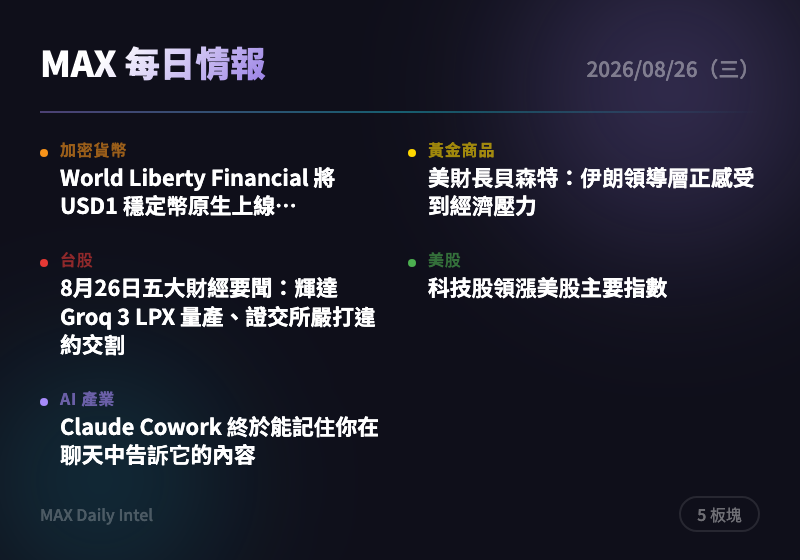
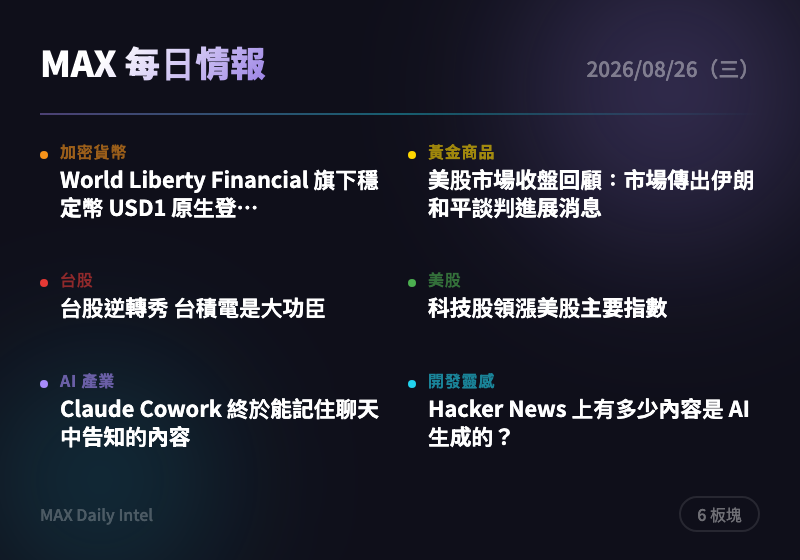
intel: 2026-08-26 每日情報自動生成

diff --git a/docs/2026-08-26.html b/docs/2026-08-26.html
@@ -295,7 +295,7 @@
     <h1>每日情報站</h1>
     <div class="date">2026 年 8 月 26 日（三）</div>
     <div class="stats">
-      <span>10 則情報</span>
+      <span>12 則情報</span>
       <span>7 大板塊</span>
     </div>
   </header>
@@ -318,15 +318,15 @@
     </div>
     <div class="news-card">
       <div class="source">CoinTelegraph</div>
-      <h3><a href="https://cointelegraph.com/news/world-liberty-financial-launches-usd1-natively-on-canton-network?utm_source=rss_feed&utm_medium=rss&utm_campaign=rss_partner_inbound" target="_blank" rel="noopener">World Liberty Financial 將 USD1 穩定幣原生上線 Canton Network</a></h3>
-      <div class="summary">USD1 穩定幣（市值逾 40 億美元、全球第六大）正式原生部署於機構級區塊鏈 Canton Network。此舉強化 USD1 在機構金融場景的流通性與可信度，顯示穩定幣持續往合規化、機構化方向發展。建議留意 USD1 後續在機構清算與代幣化資產結算的採用進度。</div>
-      <div class="tags"><span class="tag">穩定幣</span><span class="tag">機構區塊鏈</span><span class="tag">USD1</span><span class="tag">代幣化</span></div>
+      <h3><a href="https://cointelegraph.com/news/world-liberty-financial-launches-usd1-natively-on-canton-network?utm_source=rss_feed&utm_medium=rss&utm_campaign=rss_partner_inbound" target="_blank" rel="noopener">World Liberty Financial 旗下穩定幣 USD1 原生登陸 Canton Network</a></h3>
+      <div class="summary">川普家族背景的 World Liberty Financial 將其穩定幣 USD1 原生部署到機構級公鏈 Canton Network。USD1 市值已超過 40 億美元，是全球第六大穩定幣，此舉代表機構資金正加速布局合規穩定幣基礎設施。建議持續關注 USD1 流通量變化，作為觀察機構資金進出穩定幣市場的指標。</div>
+      <div class="tags"><span class="tag">穩定幣</span><span class="tag">區塊鏈基礎設施</span><span class="tag">機構資金</span></div>
     </div>
     <div class="news-card">
       <div class="source">The Block</div>
-      <h3><a href="https://www.theblock.co/news/ecosystems/2026-08-25-zro-token-layerzero-atlas-exchange-infrastructure-zero-blockchain-412736" target="_blank" rel="noopener">ZRO 代幣暴漲：LayerZero 推出建於 Zero 區塊鏈的 ATLAS 交易所基礎設施</a></h3>
-      <div class="summary">LayerZero 宣布新交易基礎設施 ATLAS，建構於自家 Zero 區塊鏈上，服務交易平台與金融機構。此舉將 LayerZero 從跨鏈訊息協議延伸進交易基礎設施市場，帶動 ZRO 代幣價格大漲。建議關注 ATLAS 後續機構採用情況，可作為觀察跨鏈交易基礎設施類代幣的指標。</div>
-      <div class="tags"><span class="tag">區塊鏈基礎設施</span><span class="tag">跨鏈</span><span class="tag">代幣</span><span class="tag">機構採用</span></div>
+      <h3><a href="https://www.theblock.co/news/ecosystems/2026-08-25-zro-token-layerzero-atlas-exchange-infrastructure-zero-blockchain-412736" target="_blank" rel="noopener">ZRO 代幣飆升，LayerZero 推出建於 Zero 鏈上的 ATLAS 交易所基礎設施</a></h3>
+      <div class="summary">LayerZero 發布新交易基礎設施 ATLAS，鎖定交易平台與金融機構客戶，建構在其自有 Zero 區塊鏈之上。消息帶動原生代幣 ZRO 價格明顯上漲，顯示市場對跨鏈基礎設施敘事仍具高度興趣。短線可留意 ZRO 是否維持動能，中長期則觀察 ATLAS 實際機構採用情況。</div>
+      <div class="tags"><span class="tag">跨鏈</span><span class="tag">交易所基礎設施</span><span class="tag">代幣異動</span></div>
     </div>
   </section>
 
@@ -338,15 +338,15 @@
     </div>
     <div class="news-card">
       <div class="source">ForexLive</div>
-      <h3><a href="https://investinglive.com/news/bessent-iran-leadership-is-feeling-the-economic-pressure/" target="_blank" rel="noopener">美財長貝森特：伊朗領導層正感受到經濟壓力</a></h3>
-      <div class="summary">美國財政部長貝森特表示對伊朗的經濟制裁壓力正在發酵，伊朗官員罕見公開承認國內物資短缺與經濟困境。此番言論強化市場對美伊局勢降溫、制裁見效的預期，是近期黃金與原油價格波動的關鍵驅動因素。建議持續關注伊朗官方後續表態，作為判斷地緣風險溢價是否進一步消退的依據。</div>
-      <div class="tags"><span class="tag">地緣政治</span><span class="tag">伊朗制裁</span><span class="tag">美國財政部</span><span class="tag">黃金</span></div>
+      <h3><a href="https://investinglive.com/news/investinglive-americas-market-news-wrap-some-late-talk-of-iran-peace/" target="_blank" rel="noopener">美股市場收盤回顧：市場傳出伊朗和平談判進展消息</a></h3>
+      <div class="summary">俄羅斯媒體傳出美伊可能達成協議的消息，同時歐洲央行內部消息人士表態九月準備升息。地緣風險降溫與央行政策轉向雙重訊號，可能同時壓抑金價避險需求並推升利率敏感資產波動。建議留意伊朗消息的官方證實進度及歐洲央行九月會議前瞻指引。</div>
+      <div class="tags"><span class="tag">地緣政治</span><span class="tag">央行</span><span class="tag">避險資產</span></div>
     </div>
     <div class="news-card">
       <div class="source">ForexLive</div>
-      <h3><a href="https://investinglive.com/news/iran-and-oman-propose-a-joint-temporary-shipping-lane/" target="_blank" rel="noopener">伊朗與阿曼提議建立臨時聯合海運通道</a></h3>
-      <div class="summary">受美伊和談進展傳聞影響，原油市場已連續兩日重挫，伊朗與阿曼隨即宣布共同海運通道及聯合掃雷計畫的協議，美方亦搶先表態水雷已清除。此為美伊關係緩和的具體訊號，將進一步壓低地緣風險溢價並拖累金價與油價。建議關注後續正式協議內容及是否有更多制裁鬆綁跟進動作。</div>
-      <div class="tags"><span class="tag">地緣政治</span><span class="tag">伊朗</span><span class="tag">原油</span><span class="tag">黃金</span></div>
+      <h3><a href="https://investinglive.com/news/iran-and-oman-propose-a-joint-temporary-shipping-lane/" target="_blank" rel="noopener">伊朗與阿曼提議共設臨時航運通道</a></h3>
+      <div class="summary">在原油市場連兩日因傳出美伊協議進展而重挫後，伊朗與阿曼隨即宣布同意設立臨時航運通道並合作清除水雷，川普更搶先宣稱雷區已清除。此為美伊局勢緩和的具體訊號，若持續發酵將壓低原油與金價的地緣風險溢價。建議短線關注原油價格是否加速下跌，並留意黃金避險需求是否同步降溫。</div>
+      <div class="tags"><span class="tag">地緣政治</span><span class="tag">原油</span><span class="tag">伊朗局勢</span></div>
     </div>
   </section>
 
@@ -358,15 +358,15 @@
     </div>
     <div class="news-card">
       <div class="source">經濟日報</div>
-      <h3><a href="https://money.udn.com/money/story/5607/9714233" target="_blank" rel="noopener">8月26日五大財經要聞：輝達 Groq 3 LPX 量產、證交所嚴打違約交割</a></h3>
-      <div class="summary">輝達最強 AI 推論晶片 Groq 3 LPX 機櫃全面量產，鴻海供應鏈受惠；同時證交所大幅收緊違約交割列管期至五年。兩則消息分別牽動台股 AI 供應鏈及市場交易紀律面，對電子權值股與整體市場穩定性均有影響。建議關注鴻海等 AI 伺服器供應鏈廠商訂單能見度，並留意證交所新規對投機交易行為的抑制效果。</div>
-      <div class="tags"><span class="tag">台股</span><span class="tag">AI伺服器</span><span class="tag">輝達</span><span class="tag">證交所法規</span></div>
+      <h3><a href="https://money.udn.com/money/story/5607/9714153" target="_blank" rel="noopener">台股逆轉秀 台積電是大功臣</a></h3>
+      <div class="summary">台股昨日受美股費半指數與科技股走弱拖累，早盤重挫逾500點下探44,210點，但午後電子權值股與金融股買盤湧入，指數翻紅並衝上全日最高45,169點，終場上漲407點。這波「神龍擺尾」逆轉行情顯示內資買盤對權值股的支撐力道強勁，短線可留意台積電及金融股是否延續買盤動能。</div>
+      <div class="tags"><span class="tag">台股</span><span class="tag">台積電</span><span class="tag">權值股</span></div>
     </div>
     <div class="news-card">
       <div class="source">經濟日報</div>
-      <h3><a href="https://money.udn.com/money/story/5607/9714153" target="_blank" rel="noopener">台股逆轉秀：台積電是大功臣</a></h3>
-      <div class="summary">台股受美股費半指數走弱拖累早盤重挫逾 500 點至 44,210 點，但午盤後電子權值股與金融股買盤湧入，終場大漲 407 點收在全日最高 45,169 點，上演「神龍擺尾」行情。台積電及權值股承接力道顯示內資信心強勁，可作為短線觀察大盤支撐的重要指標。建議留意台積電後續法說會及外資動向，作為進出場參考。</div>
-      <div class="tags"><span class="tag">台股</span><span class="tag">台積電</span><span class="tag">權值股</span><span class="tag">大盤走勢</span></div>
+      <h3><a href="https://money.udn.com/money/story/5607/9714043" target="_blank" rel="noopener">Google TPU 訂單成長帶動 聯發科、創意、世芯獲大摩看好</a></h3>
+      <div class="summary">摩根士丹利最新報告指出，隨著 Google TPU v10 複雜度提升，聯發科在打造相關晶片時將釋出空間給多家設計服務供應商分工不同區塊。此為台灣 ASIC／IC 設計服務供應鏈受惠 AI 晶片大廠外包趨勢的具體訊號，聯發科、創意、世芯可望共同受益訂單擴大。建議留意相關概念股法人買盤動向及 Q4 財報展望。</div>
+      <div class="tags"><span class="tag">半導體</span><span class="tag">AI晶片</span><span class="tag">供應鏈</span></div>
     </div>
   </section>
 
@@ -379,14 +379,14 @@
     <div class="news-card">
       <div class="source">WSJ Markets</div>
       <h3><a href="https://www.wsj.com/finance/stocks/tech-stocks-lead-major-indexes-higher-6291aac9?mod=rss_markets_main" target="_blank" rel="noopener">科技股領漲美股主要指數</a></h3>
-      <div class="summary">美股主要指數由科技股帶動走高，同時公債指標殖利率創六月以來最大單日跌幅。殖利率下滑降低了成長股估值壓力，是推升科技股表現的重要背景。建議觀察後續殖利率走勢是否延續，作為判斷科技股評價是否持續獲得支撐的依據。</div>
-      <div class="tags"><span class="tag">美股</span><span class="tag">科技股</span><span class="tag">公債殖利率</span></div>
+      <div class="summary">美股由科技股帶動走高，同時基準公債殖利率創下自六月以來最大單日跌幅。殖利率下滑通常反映市場對降息或風險趨避情緒的重新定價，配合科技股領漲顯示資金風險偏好回升。建議關注公債殖利率走勢是否持續下行，以及是否帶動更多資金輪動至成長股。</div>
+      <div class="tags"><span class="tag">美股</span><span class="tag">公債殖利率</span><span class="tag">科技股</span></div>
     </div>
     <div class="news-card">
       <div class="source">MarketWatch</div>
-      <h3><a href="https://www.marketwatch.com/story/why-metas-stock-could-see-a-50-rally-thanks-to-an-overlooked-ai-wild-card-28cea54b?mod=mw_rss_topstories" target="_blank" rel="noopener">Meta 股價可能因被忽視的 AI 變數迎來 50% 漲幅</a></h3>
-      <div class="summary">分析師指出，AI 運算資源持續短缺，可能讓 Meta 得以將自身多餘運算產能高價出售給其他企業，創造被市場低估的新營收來源。此觀點若成立，將為 Meta 股價提供額外上漲動能，超越單純廣告與 AI 應用敘事。建議關注 Meta 是否有具體對外出售運算產能的商業動作作為驗證訊號。</div>
-      <div class="tags"><span class="tag">美股</span><span class="tag">Meta</span><span class="tag">AI算力</span><span class="tag">科技股</span></div>
+      <h3><a href="https://www.marketwatch.com/story/why-metas-stock-could-see-a-50-rally-thanks-to-an-overlooked-ai-wild-card-28cea54b?mod=mw_rss_topstories" target="_blank" rel="noopener">分析師：Meta 股價可能因被忽視的 AI 因素上漲 50%</a></h3>
+      <div class="summary">分析指出，持續存在的 AI 運算力短缺可能讓 Meta 有機會將其龐大運算容量以高溢價出售給其他企業，成為市場尚未充分定價的潛在利多因子。此觀點為 Meta 股價提供新的上漲敘事，區別於單純廣告營收成長邏輯。建議關注 Meta 是否釋出雲端／算力出租相關官方消息以驗證此假設。</div>
+      <div class="tags"><span class="tag">Meta (臉書母公司)</span><span class="tag">AI算力</span><span class="tag">個股展望</span></div>
     </div>
   </section>
 
@@ -398,15 +398,15 @@
     </div>
     <div class="news-card">
       <div class="source">TechCrunch AI</div>
-      <h3><a href="https://techcrunch.com/2026/08/25/claude-cowork-finally-remembers-what-you-told-the-app-in-chat/" target="_blank" rel="noopener">Claude Cowork 終於能記住你在聊天中告訴它的內容</a></h3>
-      <div class="summary">Anthropic 為 Claude 打造跨 Chat 與 Cowork 的共享記憶功能，使用者不再需要重複向 AI 說明專案背景、偏好與其他情境資訊。此為 Anthropic 產品體驗的重大升級，直接強化 Claude 在長期協作場景的實用性與黏著度。建議關注此記憶功能是否延伸至 API/企業版，將是判斷 Anthropic 產品線競爭力的重要指標。</div>
-      <div class="tags"><span class="tag">AI</span><span class="tag">Anthropic</span><span class="tag">Claude</span><span class="tag">產品更新</span></div>
+      <h3><a href="https://techcrunch.com/2026/08/25/claude-cowork-finally-remembers-what-you-told-the-app-in-chat/" target="_blank" rel="noopener">Claude Cowork 終於能記住聊天中告知的內容</a></h3>
+      <div class="summary">Anthropic (人工智慧公司) 為 Claude 導入跨聊天與 Cowork 應用的共享記憶功能，使用者不再需要在每次使用時重複說明專案背景與個人偏好。此功能提升 Claude 在企業協作場景中的實用性與黏著度，屬於產品體驗的重要升級。建議關注此記憶功能上線後對企業用戶留存率及訂閱轉換的影響。</div>
+      <div class="tags"><span class="tag">Anthropic (人工智慧公司)</span><span class="tag">Claude (AI助手)</span><span class="tag">產品更新</span></div>
     </div>
     <div class="news-card">
       <div class="source">TechCrunch AI</div>
-      <h3><a href="https://techcrunch.com/2026/08/25/openais-jalapeno-chip-is-built-for-fast-inference-at-scale-benchmarks-show/" target="_blank" rel="noopener">OpenAI Jalapeño 晶片專為大規模快速推論設計，基準測試出爐</a></h3>
-      <div class="summary">在 SemiAnalysis 的 InferenceX 基準測試中，OpenAI 自研 Jalapeño 晶片在每用戶處理速度與每千瓦吞吐量兩項指標均優於現有業界最先進水準。此為 OpenAI 首度以實測數據證明自研晶片的推論效率優勢，象徵大型 AI 實驗室加速自製晶片、降低對輝達依賴的趨勢。建議持續追蹤 Jalapeño 量產進度及對輝達、超微等既有供應鏈廠商的潛在衝擊。</div>
-      <div class="tags"><span class="tag">AI</span><span class="tag">OpenAI</span><span class="tag">自研晶片</span><span class="tag">半導體</span></div>
+      <h3><a href="https://techcrunch.com/2026/08/25/openais-jalapeno-chip-is-built-for-fast-inference-at-scale-benchmarks-show/" target="_blank" rel="noopener">OpenAI「Jalapeño」晶片主打大規模快速推論，基準測試出爐</a></h3>
+      <div class="summary">在 SemiAnalysis 的 InferenceX 基準測試中，OpenAI 自研的 Jalapeño 晶片在每用戶處理 token 數與每千瓦吞吐量上均優於現有業界最先進水準。這代表 OpenAI 正加速自研晶片以降低對 Nvidia (輝達) 等第三方硬體的依賴，並強化其推論成本優勢。建議關注 Jalapeño 量產進度及對 Nvidia 資料中心晶片需求的潛在排擠效應。</div>
+      <div class="tags"><span class="tag">AI晶片</span><span class="tag">OpenAI</span><span class="tag">自研硬體</span></div>
     </div>
   </section>
 
@@ -414,9 +414,20 @@
     <div class="sector-header">
       <div class="indicator" style="background:#00bcd4"></div>
       <h2>&#x1f6e0;&#xfe0f; 開發靈感</h2>
-      <span class="badge">0 則</span>
+      <span class="badge">2 則</span>
     </div>
-    <div class="empty">今日暫無相關情報</div>
+    <div class="news-card">
+      <div class="source">Hacker News Best</div>
+      <h3><a href="https://blog.coredump.cx/p/how-much-of-hn-is-ai" target="_blank" rel="noopener">Hacker News 上有多少內容是 AI 生成的？</a></h3>
+      <div class="summary">一篇文章探討 Hacker News 平台上 AI 生成內容的比例，引發高達 277 則留言的熱烈討論（239 個讚）。此話題反映開發者社群對 AI 生成內容氾濫及內容真實性的普遍焦慮。可作為觀察開發者社群對 AI 內容信任度變化的參考指標。</div>
+      <div class="tags"><span class="tag">開發者社群</span><span class="tag">AI生成內容</span><span class="tag">Hacker News</span></div>
+    </div>
+    <div class="news-card">
+      <div class="source">Hacker News Best</div>
+      <h3><a href="https://larsfaye.com/articles/ai-coding-will-prevent-expertise" target="_blank" rel="noopener">過度依賴 AI 將導致程式設計專業能力衰退</a></h3>
+      <div class="summary">文章主張長期依賴 AI 輔助寫程式恐使開發者的核心程式設計能力逐漸退化，此觀點引發高達 536 個讚與 533 則留言的熱烈辯論。討論熱度顯示開發者社群對 AI 編碼工具長期影響的疑慮與分歧正在擴大。建議團隊在導入 AI 編碼工具時，同步規劃基礎能力訓練以避免技能空洞化。</div>
+      <div class="tags"><span class="tag">AI編碼</span><span class="tag">開發者技能</span><span class="tag">Hacker News</span></div>
+    </div>
   </section>
 
 

diff --git a/docs/cards/2026-08-26-card.html b/docs/cards/2026-08-26-card.html
@@ -23,10 +23,11 @@ body{width:400px;height:280px;font-family:'Noto Sans TC',-apple-system,sans-seri
 <div class="content">
 <div class="top-row"><span class="title">MAX 每日情報</span><span class="date">2026/08/26（三）</span></div>
 <div class="divider"></div>
-<div class="grid"><div class="cell"><div class="dot" style="background:#f7931a"></div><div><div class="label" style="color:#f7931a">加密貨幣</div><div class="headline">World Liberty Financial 將 USD1 穩定幣原生上線…</div></div></div>
-<div class="cell"><div class="dot" style="background:#ffd700"></div><div><div class="label" style="color:#ffd700">黃金商品</div><div class="headline">美財長貝森特：伊朗領導層正感受到經濟壓力</div></div></div>
-<div class="cell"><div class="dot" style="background:#e53935"></div><div><div class="label" style="color:#e53935">台股</div><div class="headline">8月26日五大財經要聞：輝達 Groq 3 LPX 量產、證交所嚴打違約交割</div></div></div>
+<div class="grid"><div class="cell"><div class="dot" style="background:#f7931a"></div><div><div class="label" style="color:#f7931a">加密貨幣</div><div class="headline">World Liberty Financial 旗下穩定幣 USD1 原生登…</div></div></div>
+<div class="cell"><div class="dot" style="background:#ffd700"></div><div><div class="label" style="color:#ffd700">黃金商品</div><div class="headline">美股市場收盤回顧：市場傳出伊朗和平談判進展消息</div></div></div>
+<div class="cell"><div class="dot" style="background:#e53935"></div><div><div class="label" style="color:#e53935">台股</div><div class="headline">台股逆轉秀 台積電是大功臣</div></div></div>
 <div class="cell"><div class="dot" style="background:#4caf50"></div><div><div class="label" style="color:#4caf50">美股</div><div class="headline">科技股領漲美股主要指數</div></div></div>
-<div class="cell"><div class="dot" style="background:#a78bfa"></div><div><div class="label" style="color:#a78bfa">AI 產業</div><div class="headline">Claude Cowork 終於能記住你在聊天中告訴它的內容</div></div></div></div>
-<div class="bottom-row"><span class="url">MAX Daily Intel</span><span class="badge">5 板塊</span></div>
+<div class="cell"><div class="dot" style="background:#a78bfa"></div><div><div class="label" style="color:#a78bfa">AI 產業</div><div class="headline">Claude Cowork 終於能記住聊天中告知的內容</div></div></div>
+<div class="cell"><div class="dot" style="background:#22d3ee"></div><div><div class="label" style="color:#22d3ee">開發靈感</div><div class="headline">Hacker News 上有多少內容是 AI 生成的？</div></div></div></div>
+<div class="bottom-row"><span class="url">MAX Daily Intel</span><span class="badge">6 板塊</span></div>
 </div></body></html>

diff --git a/docs/index.html b/docs/index.html
@@ -151,7 +151,7 @@
     <span>&#x1f6e0;&#xfe0f; 開發靈感</span>
   </div>
 
-  <ul class="issue-list">    <li><a class="issue-card" href="2026-08-26.html"><img src="cards/2026-08-26.png" alt="2026-08-26 每日情報摘要" loading="lazy"><div class="info"><span class="date">2026/08/26（三）</span><span class="meta">10 則情報</span></div></a></li>
+  <ul class="issue-list">    <li><a class="issue-card" href="2026-08-26.html"><img src="cards/2026-08-26.png" alt="2026-08-26 每日情報摘要" loading="lazy"><div class="info"><span class="date">2026/08/26（三）</span><span class="meta">12 則情報</span></div></a></li>
     <li><a class="issue-card" href="2026-08-25.html"><img src="cards/2026-08-25.png" alt="2026-08-25 每日情報摘要" loading="lazy"><div class="info"><span class="date">2026/08/25（二）</span><span class="meta">12 則情報</span></div></a></li>
     <li><a class="issue-card" href="2026-08-24.html"><img src="cards/2026-08-24.png" alt="2026-08-24 每日情報摘要" loading="lazy"><div class="info"><span class="date">2026/08/24（一）</span><span class="meta">12 則情報</span></div></a></li>
     <li><a class="issue-card" href="2026-08-23.html"><img src="cards/2026-08-23.png" alt="2026-08-23 每日情報摘要" loading="lazy"><div class="info"><span class="date">2026/08/23（日）</span><span class="meta">12 則情報</span></div></a></li>
